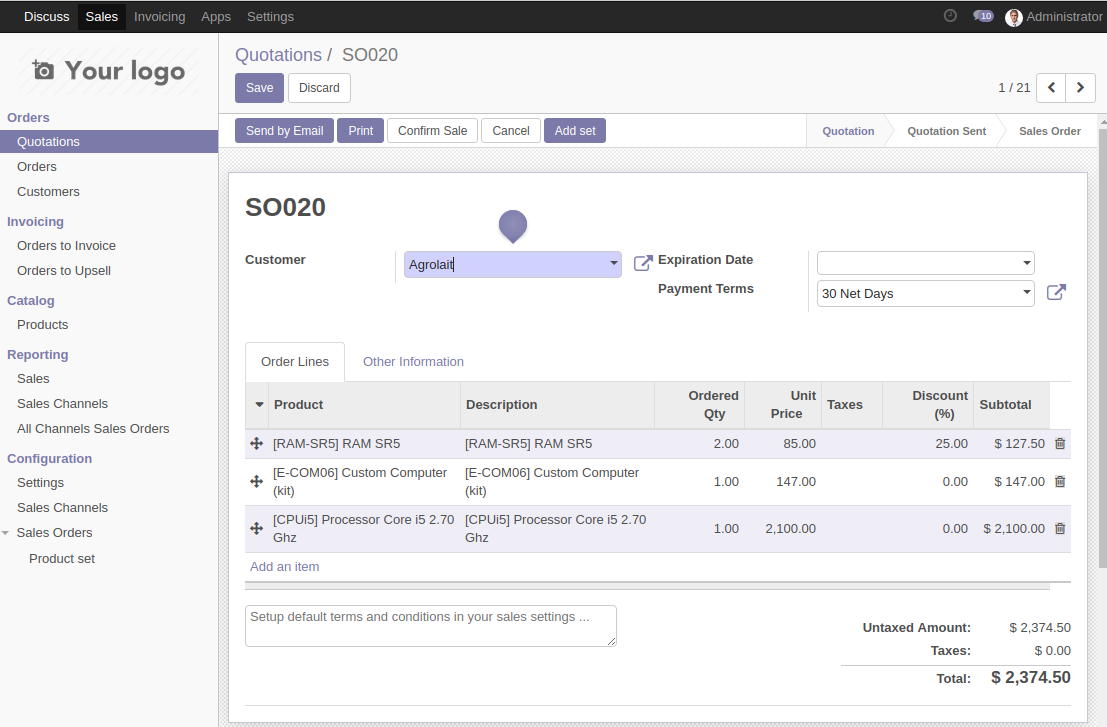
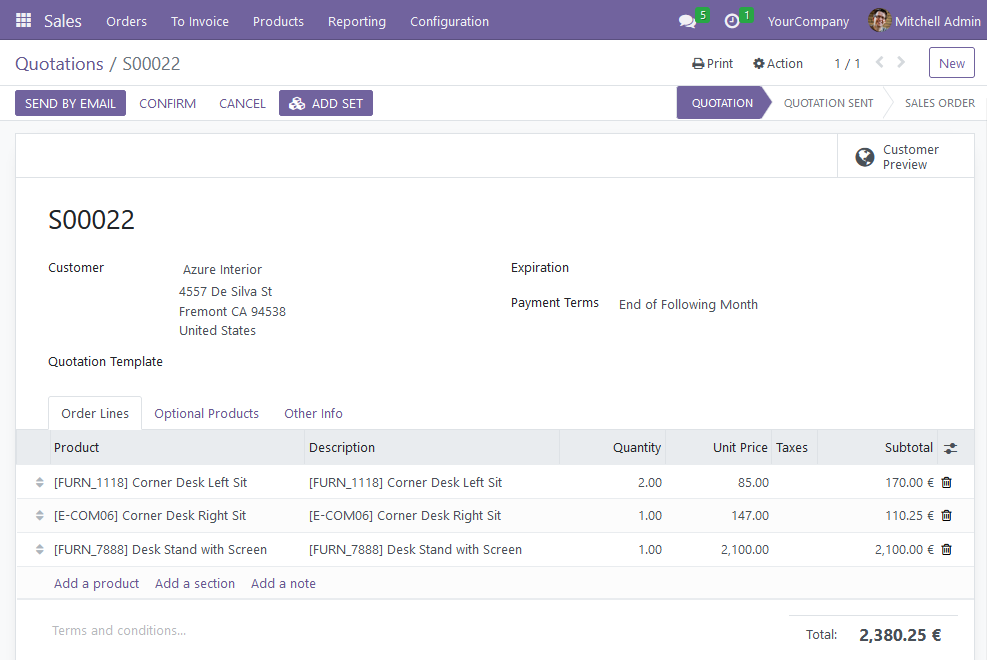
[MIG] sale_product_set: Migration to 16.0

diff --git a/sale_product_set/__manifest__.py b/sale_product_set/__manifest__.py
@@ -6,7 +6,7 @@
     "category": "Sale",
     "license": "AGPL-3",
     "author": "Anybox, Odoo Community Association (OCA)",
-    "version": "15.0.1.0.1",
+    "version": "16.0.1.0.0",
     "website": "https://github.com/OCA/sale-workflow",
     "summary": "Sale product set",
     "depends": ["sale", "sale_management", "onchange_helper"],

diff --git a/sale_product_set/readme/ROADMAP.rst b/sale_product_set/readme/ROADMAP.rst
@@ -1,0 +1,11 @@
+Known issues / Roadmap
+======================
+
+Split the module into 2:
+- product_set:
+for defining the base models and menus in neutral places (like settings part), that can be hosted in OCA/product-attribute or OCA/product-pack.
+- sale_product_set:
+adding the menu in sales part, and the wizard.
+
+
+That way, we don't have to install sale if for example we only want the sets in projects.
